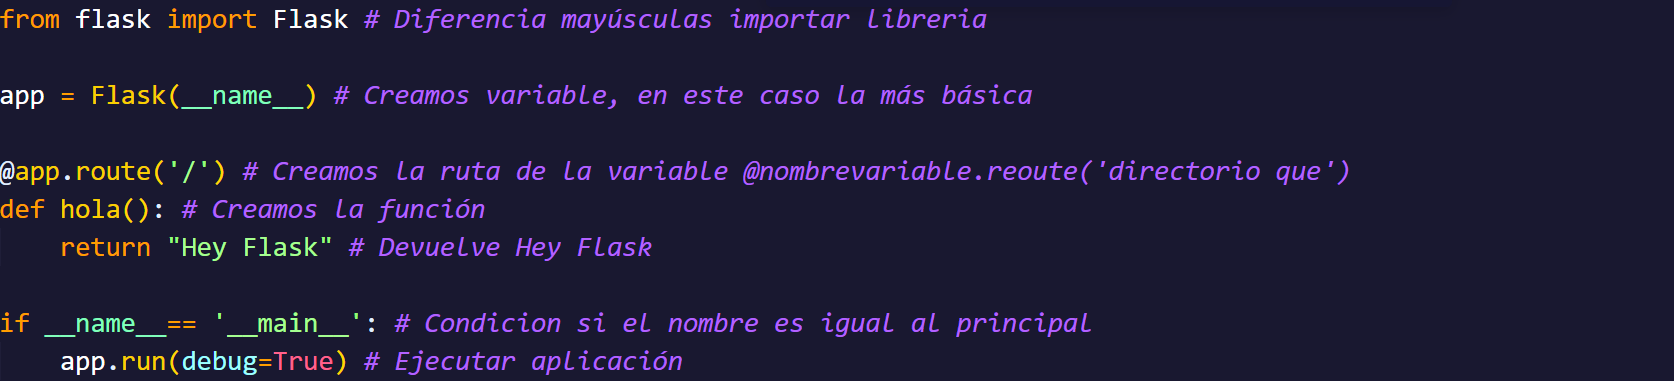
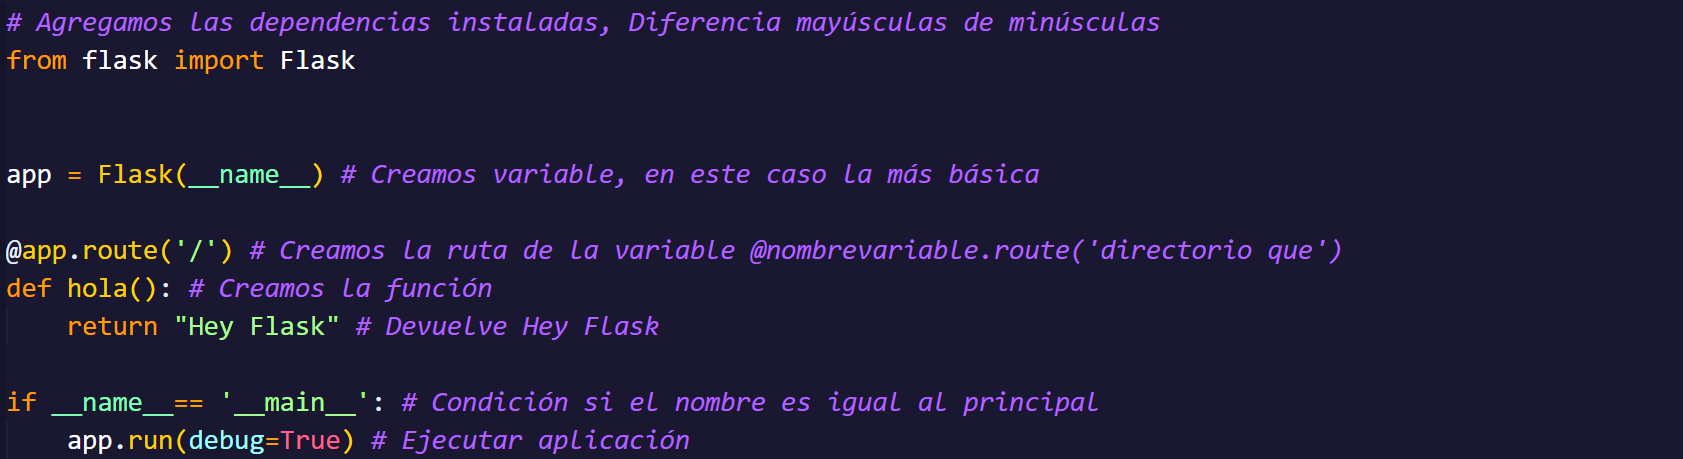
Mielma

diff --git a/Python/Api/05_SQLite_Flask_SQLAlchemy.html b/Python/Api/05_SQLite_Flask_SQLAlchemy.html
@@ -1,0 +1,63 @@
+<!DOCTYPE html>
+<html lang="en">
+<head>
+    <meta charset="UTF-8">
+    <meta name="viewport" content="width=device-width, initial-scale=1.0">
+    <title>Creando una base de datos SQLite en Flask con SQLAlchemy</title>
+    <!-- Estilos -->
+    <link rel="stylesheet" href="../Style/comunes.css"> 
+    <!-- Iconos -->
+    <script src="https://kit.fontawesome.com/e2e69b5406.js" crossorigin="anonymous"></script>
+</head>
+<body>
+
+    <h1>Base de datos SQLite en Flask con SQLAlchemy</h1>
+
+<h2>¿Qué es una base de datos SQL?</h2>
+<p> El lenguaje de consulta estructurada (SQL) es un lenguaje de consulta popular que se usa con frecuencia en todos los tipos de aplicaciones. Los analistas y desarrolladores de datos aprenden y usan SQL porque se integra bien con los diferentes lenguajes de programación.</p>
+
+<h2>¿Cuál es el funcionamiento de SQL?</h2>
+<p>SQL ejecuta consultas a partir de una o varias bases de datos, permite recuperar información, así como insertar, actualizar y borrar registros, crear tablas, procedimientos, índices de búsqueda y nuevas bases de datos . Aprender SQL favorece al desarrollo profesional en cualquier área.</p>
+
+<h2>¿Qué es embedded database, base de datos integrada?</h2>
+<p>Las bases de datos integradas son bases de datos que combinan datos de múltiples fuentes en una única vista unificada. Esto permite analizar y compartir los datos de manera uniforme.</p>
+
+<h2>¿Qué es SQLite?</h2>
+<p>Es una biblioteca de C que provee una base de datos ligera basada en disco que no requiere un proceso de servidor separado y permite acceder a la base de datos usando una variación no estándar del lenguaje de consulta SQL. Algunas aplicaciones pueden usar SQLite para almacenamiento interno.</p>
+<p>Es una base de datos muy liviana. Se le llama embedded database y significa que no hay que configurar un entorno de desarrollo completo para una base de datos.</p>
+<p>Crear archivo que funcionará como lo haría una base de datos</p>
+<p>Crear un schema.</p>
+
+<h2>Qué es un Schema?</h2>
+<p>Un esquema en un servidor SQL es una colección ilimitada de objetos de base de datos que se vinculan a un sistema de base de datos. Éste incluye tablas, funciones, vistas e índices. Es un tipo lógico de esquema que aporta una serie de ventajas, por ejemplo: Un mismo esquema puede utilizarse en varias bases de datos</p>
+
+<h2>Nota importante</h2>
+<p>A partir de noviembre de 2022, deberá utilizar el proveedor de contexto de aplicación de Flask para crear una instancia de su base de datos SQL como verá hacia el final de la lección (ya sea SQLite como en esta lección u otros formatos SQL cuando esté creando e implementando proyectos). La forma más directa de hacer esto es usar la palabra clave "with" en un REPL de Python junto con el proveedor de contexto (asegúrese de sangrar la última línea y presionar Intro más de una vez si es necesario para obtener el código para ejecutar).):</p>
+
+<h2>Creación de una tabla de base de datos mediante programación</h2>
+<p>Construir API endpoint propio</p>
+
+
+<!-- <h2>Coding Exercise</h2> -->
+
+<p></p>
+<!-- Imagen -->
+
+<h1>Links Informativos</h1>
+
+<div class="link">
+<p><a href="https://basque.devcamp.com/pt-full-stack-development-javascript-python-react/guide/creating-sqlite-database-flask-sqlalchemy" 
+    target="_blank">DevCamp Exclusivo Usuarios</a></p>
+<p><a href="https://github.com/bottega-code-school/hello-flask/tree/72b076886d996f4a5236bed1f69a1746fdfbb02f" 
+    target="_blank">Código en esta etapa</a></p>
+<p><a href="https://es.wikipedia.org/wiki/Base_de_datos_embebida" 
+    target="_blank">Wikipedia embedded database</a></p>
+<p><a href="https://docs.python.org/es/3/library/os.path.html#os.path.split" 
+    target="_blank">os.path</a></p>
+<!-- <p><a href="" 
+    target="_blank"></a></p> -->
+
+</div>    
+
+</body>
+</html>

diff --git a/Python/Api/04_Dependencias_Flask_Funciones_Api.html b/Python/Api/04_Dependencias_Flask_Funciones_Api.html
@@ -29,16 +29,28 @@
 <p>Renderizar json api y empaquetar el código. Hace que la representación de los datos de la API JSON sean más fácil para ver en la documentación algunas de las herramientas, para construir modelos propios y crear esquemas, que permiten estructurar esos datos y crear un punto final API</p>
 <p>Flask-Marshmallow es una capa de integración delgada para Flask (un marco web de Python) y marshmallow (una biblioteca de serialización o deserialización de objetos) que agrega características adicionales a marshmallow, incluidos campos de URL e hipervínculos para API listas para HATEOAS. También (opcionalmente) se integra con Flask-SQLAlchemy.</p>
 
-<h2>¿¿Qué es Marshmallow-SQLAlchemy?</h2>
+<h2>¿Qué es Marshmallow-SQLAlchemy?</h2>
 <p>Es una biblioteca ORM/ODM/framework-agnostic para convertir tipos de datos complejos, como objetos, hacia y desde tipos de datos nativos de Python. Serializa y des-serializa nuestros modelos SQLAlchemy de forma que podamos trabajar más fácilmente en formato JSON</p>
 <p>Conecta SQL Alchemy y Marshmallow, permitiendo conectarse a ambas herramientas para usarlas en conjunto.</p>
 
 <h2>Instalar dependencias</h2>
 <p>Desde el terminal ejecutar cada instalador
+<br>pipenv --python 3.7 (Crea Pipfile) # Instalado guía anterior
+<br>pipenv install flask (Instala Flask en Pipfile) # Instalado guía anterior
 <br>pipenv install Flask-SQLAlchemy
 <br>pipenv install flask-marshmallow
-<br>pipenv install marshmallow-sqlalchemy
-</p>
+<br>pipenv install marshmallow-sqlalchemy</p>
+
+<h2>Editar Archivo</h2>
+<p>Añadir las dependencias al archivo</p>
+<img src="imagenes/hola flask función2.png" alt="hola flask función2">
+<p>Una vez editado el archivo, run y para finalizar la sesión del servidor CTRL+C</p>
+<img src="imagenes/hola flask run2.png" alt="hola flask run2">
+<p>Registro de depuración, dice que se está ejecutando en esta URL http://127.0.0.1:5000/ 
+<br>Es lo mismo que decir localhost:5000
+<br>Ir a localhost:5000 y te dice "Hola Flask", solo mientras la sesión del servidor esté abierta, sino tira error</p>
+<img src="imagenes/hola flask localhost.png" alt="hola flask localhost">
+
 <!-- <h2>Coding Exercise</h2> -->
 
 <p></p>
@@ -53,10 +65,10 @@
     target="_blank"></a>Flask SQL Alchemy</p>
 <p><a href="http://flask-marshmallow.readthedocs.io/en/latest/" 
     target="_blank">Flask Marshmallow</a></p>
-<!-- <p><a href="" 
-    target="_blank"></a></p> -->
-<!-- <p><a href="" 
-    target="_blank"></a></p> -->
+<p><a href="https://marshmallow-sqlalchemy.readthedocs.io/en/latest/" 
+    target="_blank"></a>Marshmallow-SQLAlchemy</p>
+<p><a href="https://github.com/bottega-code-school/hello-flask/tree/0f210cc30c2a46bd4ed3a2cd2f8ff43b6e42a7a6" 
+    target="_blank">Código en esta etapa</a></p>
 <!-- <p><a href="" 
 target="_blank"></a></p> -->
 </div>    

diff --git a/Python/Api/03_Configuración_Flask.html b/Python/Api/03_Configuración_Flask.html
@@ -57,7 +57,7 @@
 <p><a href="https://www.ionos.es/digitalguide/paginas-web/desarrollo-web/flask/"
     target="_blank">Flask Ionos</a></p>
 <p><a href="https://github.com/bottega-code-school/hello-flask/tree/008b0fc18a7d41c3be946a51d3c5d215cb72f11b"
-    target="_blank">Código github Jordan</a></p>
+    target="_blank">Código en esta etapa</a></p>
 <p><a href="https://docs.pipenv.org/"
     target="_blank">Guía instalación pipenv </a></p>
 </body>

diff --git a/Python/Api/Hola_Flask/app.py b/Python/Api/Hola_Flask/app.py
@@ -1,12 +1,13 @@
-from flask import Flask # Diferencia mayúsculas importar libreria
+# Agregamos las dependencias instaladas, Diferencia mayúsculas de minúsculas
+from flask import Flask 
+from flask_sqlalchemy import SQLAlchemy
+from flask_marshmallow import Marshmallow
+import os
 
 app = Flask(__name__) # Creamos variable, en este caso la más básica
 
-@app.route('/') # Creamos la ruta de la variable @nombrevariable.reoute('directorio que')
-def hola(): # Creamos la función
-    return "Hey Flask" # Devuelve Hey Flask
+directorio_base = os.path.abspath(os.path.dirname(__file__))# Convertir una ruta relativa en una ruta absoluta
 
-if __name__== '__main__': # Condicion si el nombre es igual al principal
+if __name__== '__main__': # Condición si el nombre es igual al principal
     app.run(debug=True) # Ejecutar aplicación 
-    
-    
+
